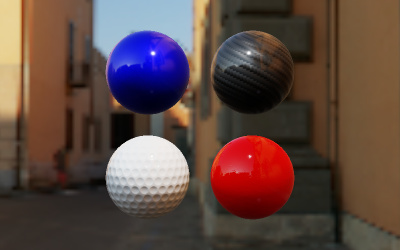
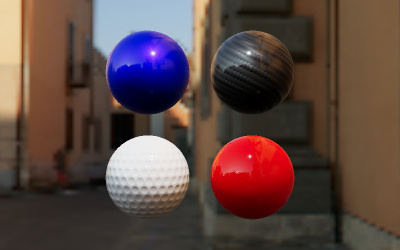
Examples: Updated ACESFilmicToneMapping settings.

Changed region(s): [[0.33, 0.168, 0.42, 0.252], [0.63, 0.532, 0.69, 0.588]]

diff --git a/examples/webgl_materials_car.html b/examples/webgl_materials_car.html
@@ -25,7 +25,7 @@
 			<a href="https://threejs.org" target="_blank" rel="noopener">three.js</a> car materials<br/>
 			Ferrari 458 Italia model by <a href="https://sketchfab.com/models/57bf6cc56931426e87494f554df1dab6" target="_blank" rel="noopener">vicent091036</a>
 			<br><br>
-			<span class="colorPicker"><input id="body-color" type="color" value="#000333"></input><br/>Body</span>
+			<span class="colorPicker"><input id="body-color" type="color" value="#ff0000"></input><br/>Body</span>
 			<span class="colorPicker"><input id="details-color" type="color" value="#ffffff"></input><br/>Details</span>
 			<span class="colorPicker"><input id="glass-color" type="color" value="#ffffff"></input><br/>Glass</span>
 		</div>
@@ -60,6 +60,7 @@
 				renderer.setAnimationLoop( render );
 				renderer.outputEncoding = THREE.sRGBEncoding;
 				renderer.toneMapping = THREE.ACESFilmicToneMapping;
+				renderer.toneMappingExposure = 1.25;
 				container.appendChild( renderer.domElement );
 
 				window.addEventListener( 'resize', onWindowResize, false );
@@ -70,7 +71,7 @@
 				//
 
 				camera = new THREE.PerspectiveCamera( 30, window.innerWidth / window.innerHeight, 0.1, 100 );
-				camera.position.set( 6, 2, - 5 );
+				camera.position.set( 5, 2.5, - 6 );
 
 				controls = new OrbitControls( camera, container );
 				controls.target.set( 0, 0.5, 0 );
@@ -90,7 +91,7 @@
 				// materials
 
 				var bodyMaterial = new THREE.MeshPhysicalMaterial( {
-					color: 0x000333, metalness: 1.0, roughness: 0.5, clearcoat: 0.02, clearcoatRoughness: 0.01
+					color: 0xff0000, metalness: 0.6, roughness: 0.4, clearcoat: 0.05, clearcoatRoughness: 0.05
 				} );
 
 				var detailsMaterial = new THREE.MeshStandardMaterial( {
@@ -98,7 +99,7 @@
 				} );
 
 				var glassMaterial = new THREE.MeshPhysicalMaterial( {
-					color: 0xffffff, metalness: 0, roughness: 0, transparency: 0.8, transparent: true
+					color: 0xffffff, metalness: 0, roughness: 0.1, transparency: 0.9, transparent: true
 				} );
 
 				var bodyColorInput = document.getElementById( 'body-color' );

diff --git a/examples/webgl_shaders_sky.html b/examples/webgl_shaders_sky.html
@@ -98,7 +98,7 @@
 				renderer.setSize( window.innerWidth, window.innerHeight );
 				renderer.outputEncoding = THREE.sRGBEncoding;
 				renderer.toneMapping = THREE.ACESFilmicToneMapping;
-				renderer.toneMappingExposure = 0.25;
+				renderer.toneMappingExposure = 0.5;
 				document.body.appendChild( renderer.domElement );
 
 				controls = new OrbitControls( camera, renderer.domElement );

diff --git a/examples/webgl_loader_gltf.html b/examples/webgl_loader_gltf.html
@@ -87,7 +87,6 @@
 				renderer.setPixelRatio( window.devicePixelRatio );
 				renderer.setSize( window.innerWidth, window.innerHeight );
 				renderer.toneMapping = THREE.ACESFilmicToneMapping;
-				renderer.toneMappingExposure = 0.8;
 				renderer.outputEncoding = THREE.sRGBEncoding;
 				container.appendChild( renderer.domElement );
 

diff --git a/examples/webgl_materials_variations_physical.html b/examples/webgl_materials_variations_physical.html
@@ -159,7 +159,6 @@
 
 				renderer.outputEncoding = THREE.sRGBEncoding;
 				renderer.toneMapping = THREE.ACESFilmicToneMapping;
-				renderer.toneMappingExposure = 0.75;
 
 				//
 

diff --git a/examples/webgl_materials_variations_standard.html b/examples/webgl_materials_variations_standard.html
@@ -164,7 +164,6 @@
 
 				renderer.outputEncoding = THREE.sRGBEncoding;
 				renderer.toneMapping = THREE.ACESFilmicToneMapping;
-				renderer.toneMappingExposure = 0.75;
 
 				//
 

diff --git a/examples/webgl_materials_physical_clearcoat.html b/examples/webgl_materials_physical_clearcoat.html
@@ -176,7 +176,7 @@
 				//
 
 				renderer.toneMapping = THREE.ACESFilmicToneMapping;
-				renderer.toneMappingExposure = 1;
+				renderer.toneMappingExposure = 2;
 
 				//
 

diff --git a/examples/webgl_tonemapping.html b/examples/webgl_tonemapping.html
@@ -28,7 +28,7 @@
 			var gui, guiExposure = null;
 
 			var params = {
-				exposure: 0.8,
+				exposure: 1.5,
 				toneMapping: 'ACESFilmic'
 			};
 

diff --git a/examples/webgl_materials_envmaps_exr.html b/examples/webgl_materials_envmaps_exr.html
@@ -25,7 +25,7 @@
 				envMap: 'EXR',
 				roughness: 0.0,
 				metalness: 0.0,
-				exposure: 1.0,
+				exposure: 2.0,
 				debug: false,
 			};
 

diff --git a/examples/webgl_materials_envmaps_hdr.html b/examples/webgl_materials_envmaps_hdr.html
@@ -28,7 +28,7 @@
 				envMap: 'HDR',
 				roughness: 0.0,
 				metalness: 0.0,
-				exposure: 1.0,
+				exposure: 2.0,
 				debug: false
 			};
 
